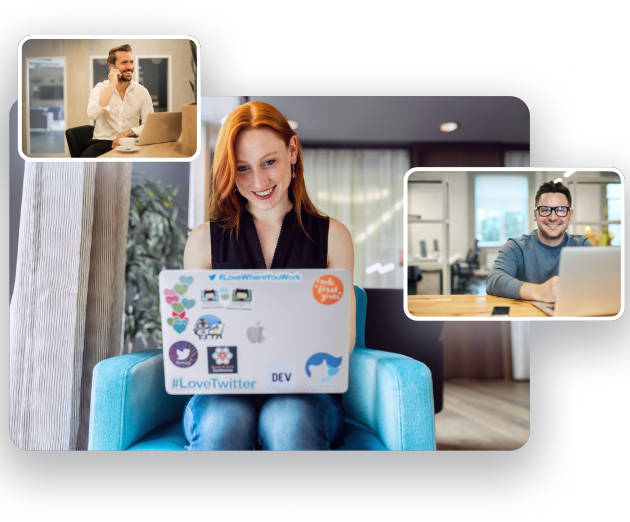
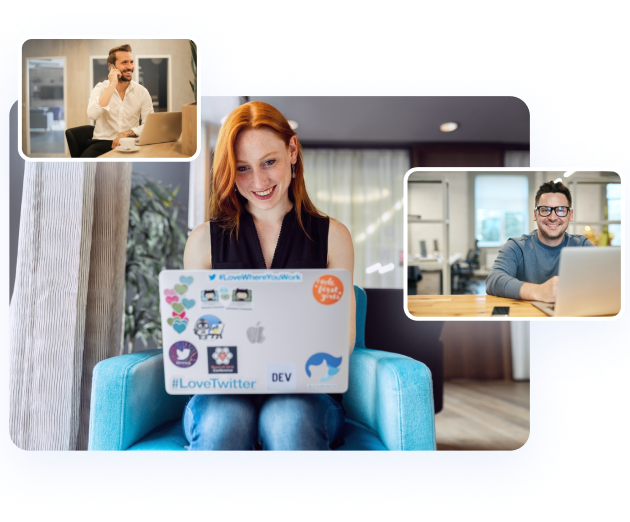
animation ellipse fix position

Changed region(s): [[0.0, 0.092, 1.0, 0.9502], [0.8143, 0.2146, 0.9048, 0.3372], [0.3016, 0.092, 0.3921, 0.1839]]

diff --git a/src/subcomponents/Landing.js b/src/subcomponents/Landing.js
@@ -30,11 +30,18 @@ const ImgContainer = styled.div`
     width: 112px;
     height: 112px;
 
-    @media screen and (max-width: 600px) {
+    @media screen and (max-width: 600px) and (min-width: 370px) {
       bottom: 130px;
       left: -30px;
       width: 112px;
       height: 112px;
+    }
+
+    @media screen and (max-width: 369px) {
+      bottom: 45px;
+      left: -30px;
+      width: 100px;
+      height: 100px;
     }
   }
 
@@ -44,11 +51,18 @@ const ImgContainer = styled.div`
     width: 229px;
     height: 229px;
 
-    @media screen and (max-width: 600px) {
+    @media screen and (max-width: 600px) and (min-width: 370px) {
       top: -20px;
       right: -30px;
       width: 175px;
       height: 175px;
+    }
+
+    @media screen and (max-width: 369px) {
+      top: -20px;
+      right: -20px;
+      width: 150px;
+      height: 150px;
     }
   }
 

diff --git a/src/components/Nav.js b/src/components/Nav.js
@@ -140,7 +140,6 @@ const Nav = () => {
                   </ListItem>
                 ))}
               </List>
-              <Divider />
               <Box>
                 <OutlinedButton variant="outlined" wt="500">
                   Sign Up
